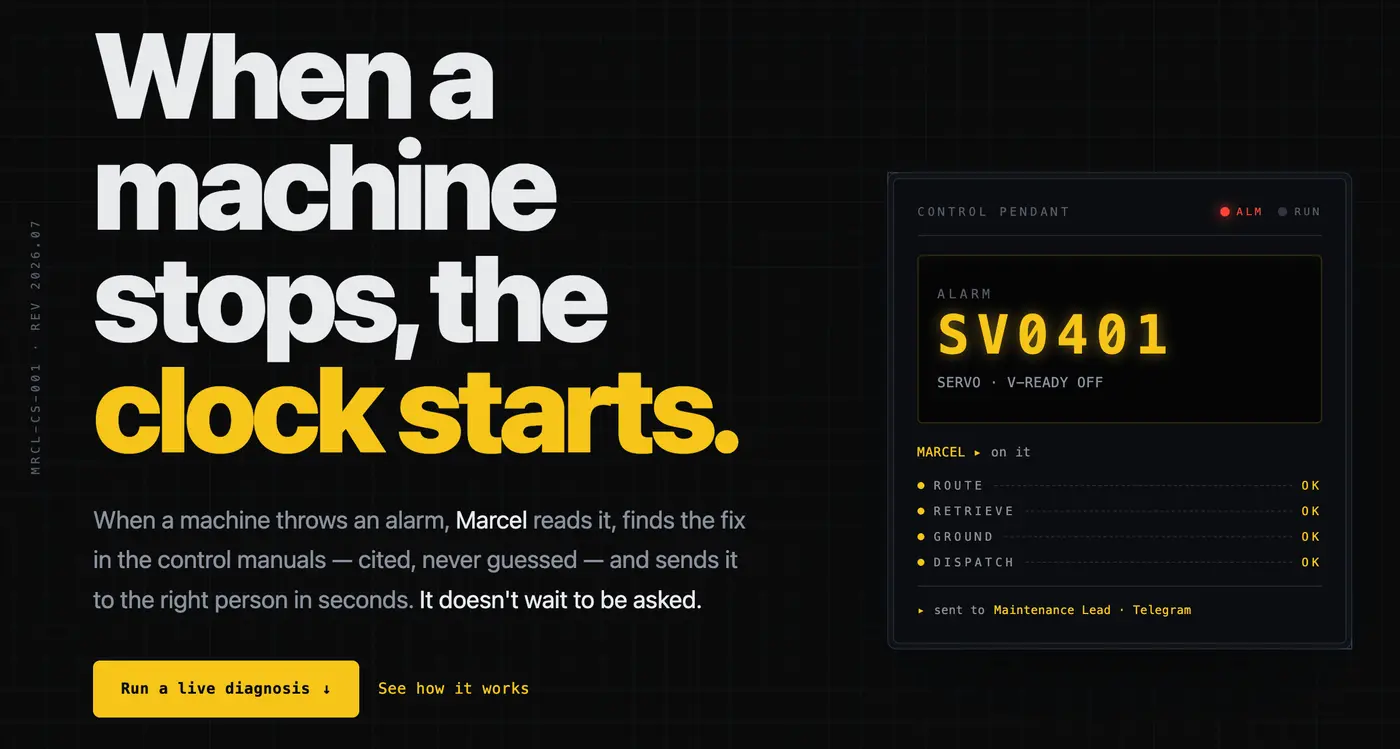
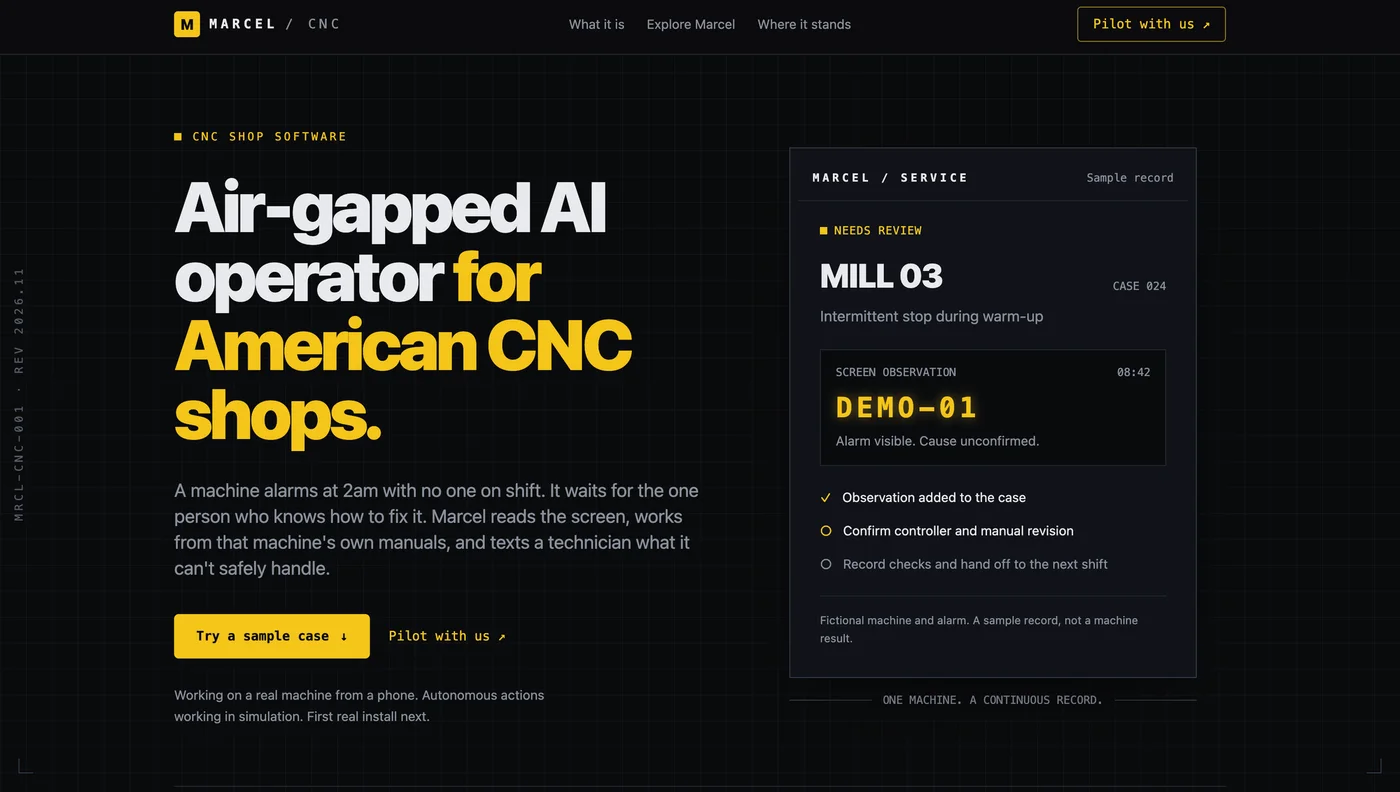
Refresh the Marcel image, Home, IMTS wording, and the social card

diff --git a/src/content/notes/home.md b/src/content/notes/home.md
@@ -17,14 +17,14 @@ Jailbroken iPhones. Rooted Androids. F135 turbofan telemetry. CNC controllers. N
 
 Building [[Marcel]], an air-gapped AI operator for CNC machines.
 
-Right now: product and growth work on a hardware launch at [[Cytrence Technologies]], and building an [[RV32I Processor|RV32I processor]] in SystemVerilog with SiliconJackets at Georgia Tech.
+Right now: a mobile security lane at [[Strix]], product and growth work on a hardware launch at [[Cytrence Technologies]], and building an [[RV32I Processor|RV32I processor]] in SystemVerilog with SiliconJackets at Georgia Tech. Next: machine tool software at [[Nakamura-Tome]].
 
 > [!info] What I'm looking for
 > A Summer 2027 internship in the Bay Area or New York. I want to be somewhere I'm encouraged to break things, then build the systems that put them back together better than before. Proving out the newest tools rather than reaching for the ones that are already proven.
 
 ## Start anywhere
 
-- [[Experience]] · Visa, U.S. Bank, Belcan, Cytrence
+- [[Experience]] · Nakamura-Tome, Strix, Visa, U.S. Bank, Belcan, Cytrence
 - [[Projects]] · an air-gapped AI operator for CNC machines, a quantum encryption compiler, a trust layer for agentic payments
 - [[Entrepreneurship]] · a detailing business that became a fundraiser
 - [[Hobbies]] · bikes, whitewater, mountains, 16 of 63 national parks

diff --git a/src/content/notes/imts-2026.md b/src/content/notes/imts-2026.md
@@ -9,7 +9,7 @@ summary: I walked IMTS 2026 to find out whether reading a CNC control screen wor
 
 IMTS 2026, McCormick Place, Chicago, September 14 to 19.
 
-I went with one question: does reading the control screen actually work on the machines shops are buying now? [[Marcel]] depends on it, and until this month my answer was a guess.
+I went with one question: does reading the control screen actually work on the machines shops are buying now? [[Marcel]] depends on it, and until then my answer was a guess.
 
 ## What I had assumed
 
@@ -25,7 +25,7 @@ The controls I looked at, current FANUC controls and OnLogic-based industrial PC
 2. **USB keyboard and mouse.** Standard input, which is what a KVM-style capture device speaks.
 3. **Standard display connection.** An interchangeable monitor on a common video interface, so a capture device sits inline without modification.
 
-Put those together and the display bridge needs **no network drop, no licensed protocol, and no builder integration.** It sits between the control and its own monitor and reads what the operator reads.
+Put those together and the capture device needs **no network drop, no licensed protocol, and no builder integration.** It sits between the control and its own monitor and reads what the operator reads.
 
 ## What this is and isn't
 

diff --git a/src/content/notes/marcel.md b/src/content/notes/marcel.md
@@ -13,6 +13,8 @@ website: marcelcnc.com
 > [!warning] Status
 > Working on a real machine by phone, read-only. Actions work in simulation only. It is not installed on a real CNC control yet, and there is no pilot shop yet.
 
+![|wide](/img/marcel-hero.webp)
+
 **Air-gapped AI operator for CNC machines.**
 
 A small KVM-style capture-and-keyboard device on the control's screen and USB keyboard port lets Marcel read the screen, diagnose alarms from the machine's own manuals with page citations, take actions from a short reviewed list and verify them on screen, and text a technician the rest. The machine never goes on a network.
